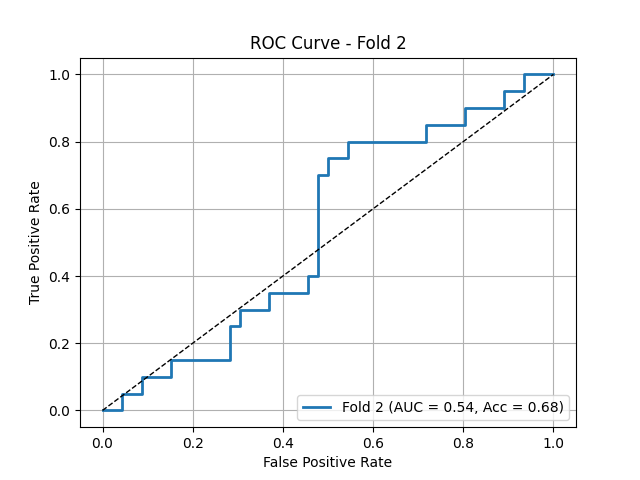
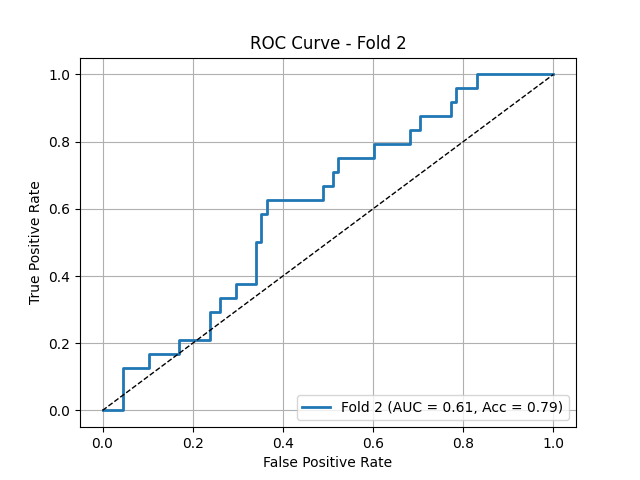
transformer with patient less 20

diff --git a/dataset_washu2.py b/dataset_washu2.py
@@ -160,6 +160,15 @@ class Classificaiton_Dataset(Dataset):
 		if self.phase == "test":
 			selected_cases = test_case_set
 			self.transform = val_transform
+
+			# === Logging patient-side selections for current phase ===
+			selected_case_list = sorted(list(selected_cases))
+			print(f"\n📋 [{self.phase.upper()} SET] — {len(selected_case_list)} PatientSides:")
+			for case in selected_case_list:
+				pid = case.split("_")[0].lstrip("p")
+				side = case.split("_")[1]
+				label = label_map[case]
+				print(f" - Patient ID: {pid}, Side: {side}, Label: {label}")
 		else:
 			# Exclude test cases from fold-based splitting
 			strat_case_ids = [cid for cid in case_ids if cid not in test_case_set]
@@ -168,9 +177,7 @@ class Classificaiton_Dataset(Dataset):
 			skf = StratifiedKFold(n_splits=k_fold, shuffle=True, random_state=42)
 			splits = list(skf.split(strat_case_ids, strat_case_labels))
 			train_idx, val_idx = splits[fold]
-			print("train pateints: ", train_idx)
-			print(val_idx)
-			print("val patients: ", val_idx)
+
 
 			if self.phase == "train":
 				selected_cases = set(strat_case_ids[i] for i in train_idx)
@@ -178,6 +185,16 @@ class Classificaiton_Dataset(Dataset):
 			else:
 				selected_cases = set(strat_case_ids[i] for i in val_idx)
 				self.transform = val_transform
+
+
+			# === Logging patient-side selections for current phase ===
+			selected_case_list = sorted(list(selected_cases))
+			print(f"\n📋 [{self.phase.upper()} SET] — {len(selected_case_list)} PatientSides:")
+			for case in selected_case_list:
+				pid = case.split("_")[0].lstrip("p")
+				side = case.split("_")[1]
+				label = label_map[case]
+				print(f" - Patient ID: {pid}, Side: {side}, Label: {label}")
 
 		# === Load filesystem and match against selected cases ===
 		all_samples = []
@@ -244,6 +261,11 @@ class Classificaiton_Dataset(Dataset):
 	
 if __name__ == '__main__':
 	#Classificaiton_Dataset(phase = 'train', img_transform= transform_img)
+
+	for i in range(5):
+		train_dataset = Classificaiton_Dataset(phase = 'train', k_fold=5, fold= i)
+		train_dataset = Classificaiton_Dataset(phase = 'val', k_fold=5, fold= i)
+
 	train_dataset = Classificaiton_Dataset(phase = 'test', k_fold=5, fold= 0)
 	print("train dataset size: ", len(train_dataset))
 

diff --git a/models_onlytorch.py b/models_onlytorch.py
@@ -343,13 +343,30 @@ class TransformerBackbone(nn.Module):
             nn.Linear(256, outsize)
         )
 
+        # def forward(self, x):
+        #     if x.shape[1] == 1:
+        #         x = x.repeat(1, 3, 1, 1)  # grayscale → RGB
+        #     x = self.backbone.forward_features(x)
+        #     x = self.fc(x)
+        #     return x
     def forward(self, x):
         if x.shape[1] == 1:
             x = x.repeat(1, 3, 1, 1)  # grayscale → RGB
-        x = self.backbone.forward_features(x)
-        x = self.fc(x)
+
+        x = self.backbone.forward_features(x)  # shape: (B, 8, 8, C)
+
+        # Permute to (B, C, H, W) for pooling
+        x = x.permute(0, 3, 1, 2)  # shape: (B, C, 8, 8)
+
+        # Downsample to (2, 2)
+        x = F.adaptive_avg_pool2d(x, (2, 2))  # shape: (B, C, 2, 2)
+
+        # Permute back to (B, H, W, C)
+        x = x.permute(0, 2, 3, 1)  # shape: (B, 2, 2, C)
+
+        # Apply FC to final dim
+        x = self.fc(x)  # Applies FC on each (2,2,C) → (2,2,outsize)
         return x
-    
 
 class BinaryClassificationTorch(nn.Module):
     def __init__(self, input_dim=64, output_size = 5, num_classes=1, radiomics=False, radiomics_dim=463,
@@ -384,7 +401,7 @@ class BinaryClassificationTorch(nn.Module):
         else:
             self.linear = FCNetwork(self.input_size, self.hidden_sizes, self.output_size)
 
-        self.final_layer = FCNetwork(5+ 3*64, [24, 12, 5], num_classes)
+        self.final_layer = FCNetwork(5+ 3*4, [24, 12, 5], num_classes)
 
         self.loss_fn = FocalLoss()
         self.loss_fn2 = nn.BCEWithLogitsLoss(pos_weight=torch.tensor([3.0]))
@@ -428,7 +445,7 @@ class BinaryClassificationTorch(nn.Module):
             loss = self.loss_fn(score, y.float()) + sum(self.loss_fn(t, y.float()) for t in tails)
         else:
             score, tails = self.forward(x)
-            y3 = y.unsqueeze(-1).repeat((1, 64)).squeeze()
+            y3 = y.unsqueeze(-1).repeat((1, 4)).squeeze()
             y2 = y.unsqueeze(-1).repeat((1, self.output_size)).squeeze()
             loss = (self.loss_fn(score, y.float()) * 0.2 +
                     self.loss_fn(tails[0], y2.float()) * 0.1 +
